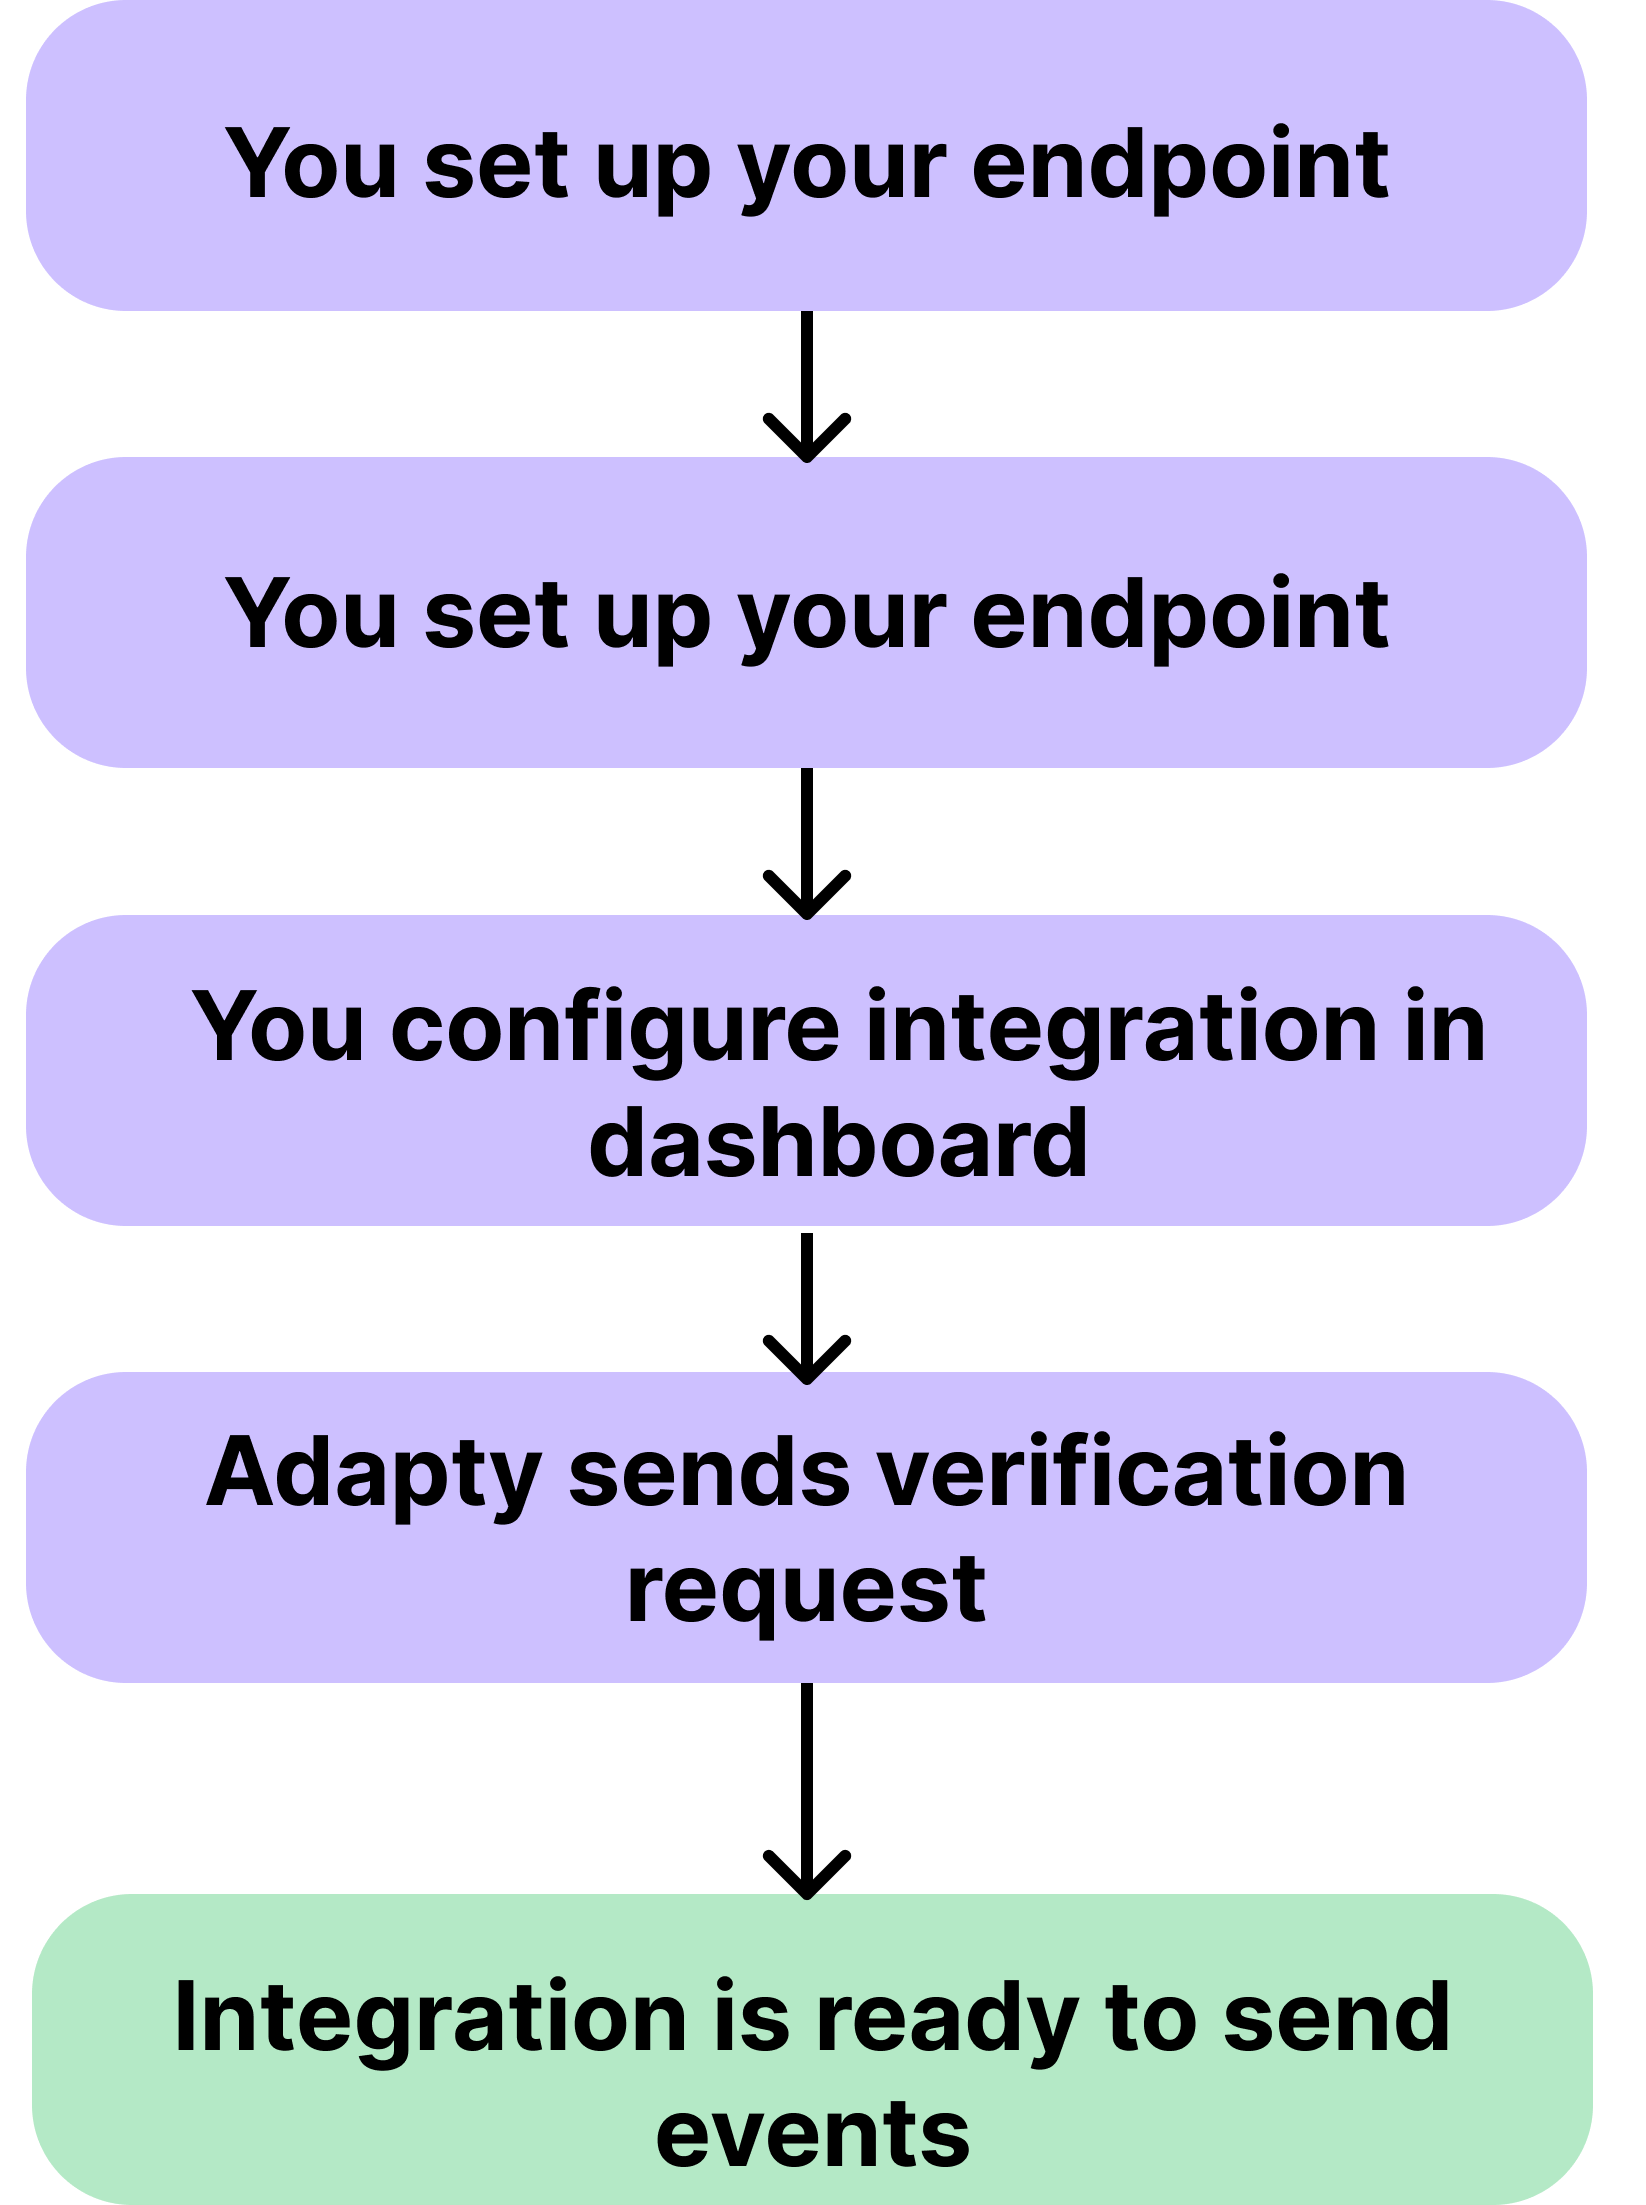
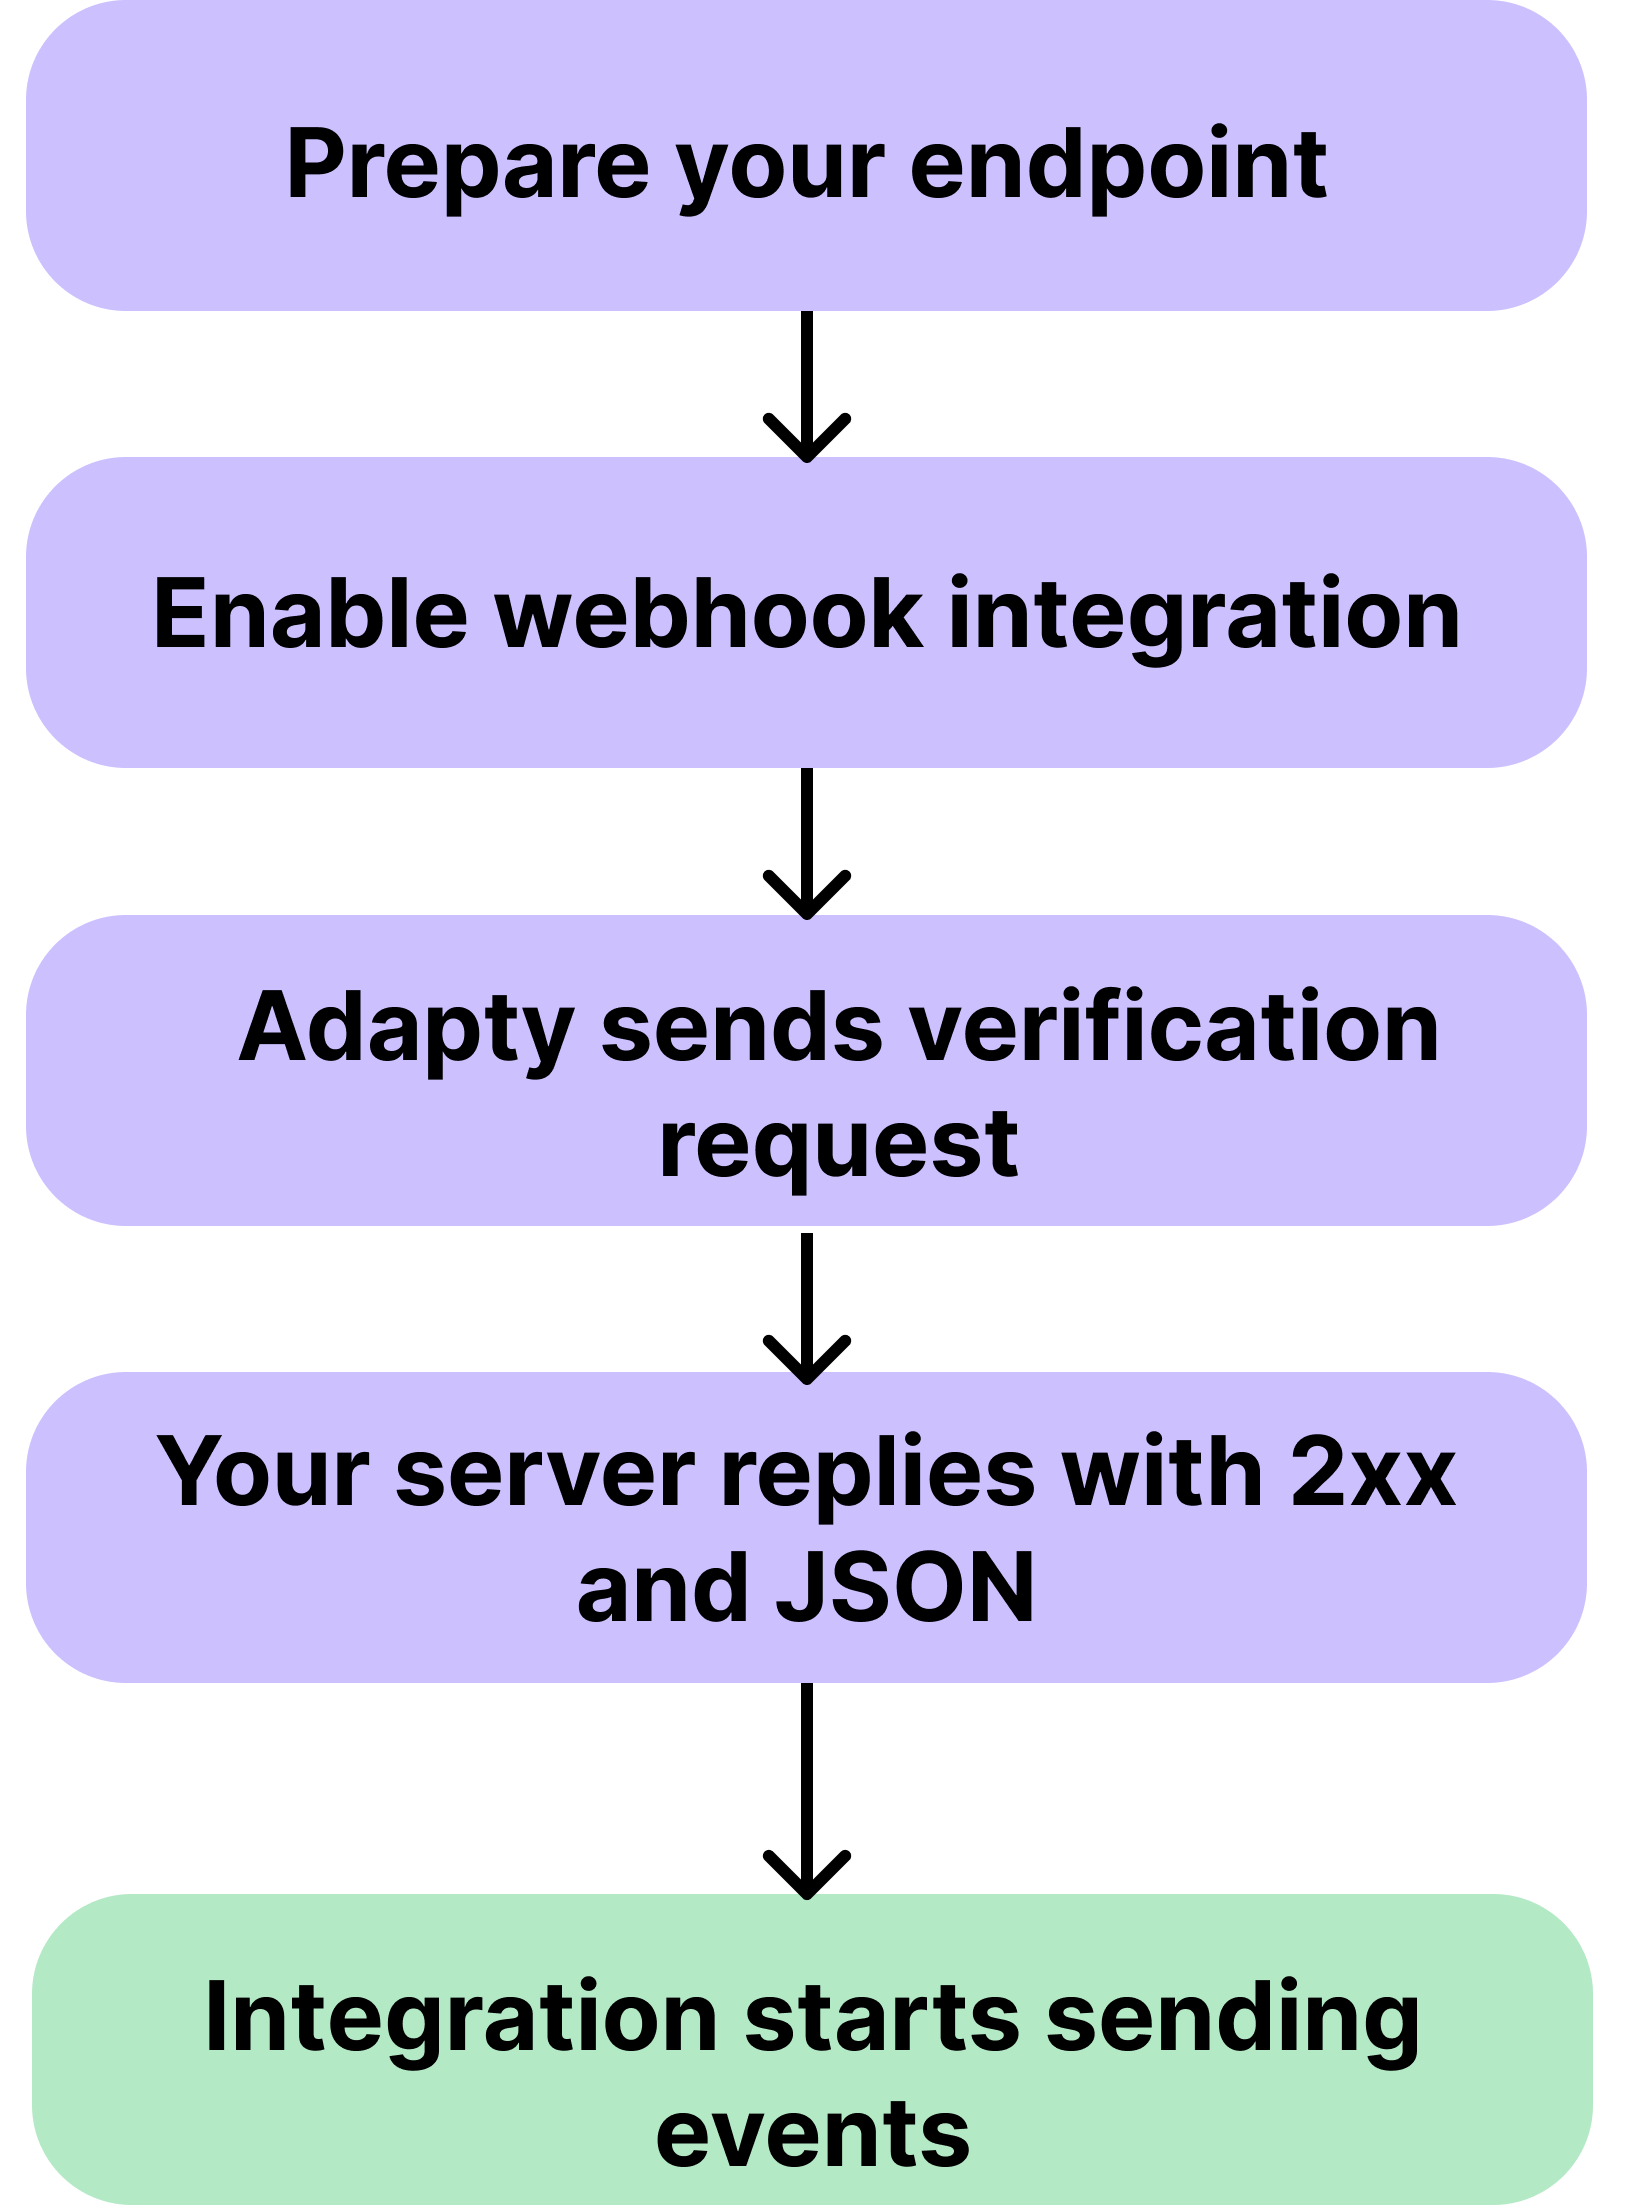
Fix

diff --git a/versioned_docs/version-3.0/set-up-webhook-integration.md b/versioned_docs/version-3.0/set-up-webhook-integration.md
@@ -9,7 +9,7 @@ import 'react-medium-image-zoom/dist/styles.css'
 Adapty [webhook integration](webhook) consists of the following steps:
 
 <Zoom>
-  <img src={require('./img/webhook-setup.png').default}
+  <img src={require('./img/webhook-steps.png').default}
   style={{
     border: '1px solid #727272', /* border width and color */
     width: '300px', /* image width */
